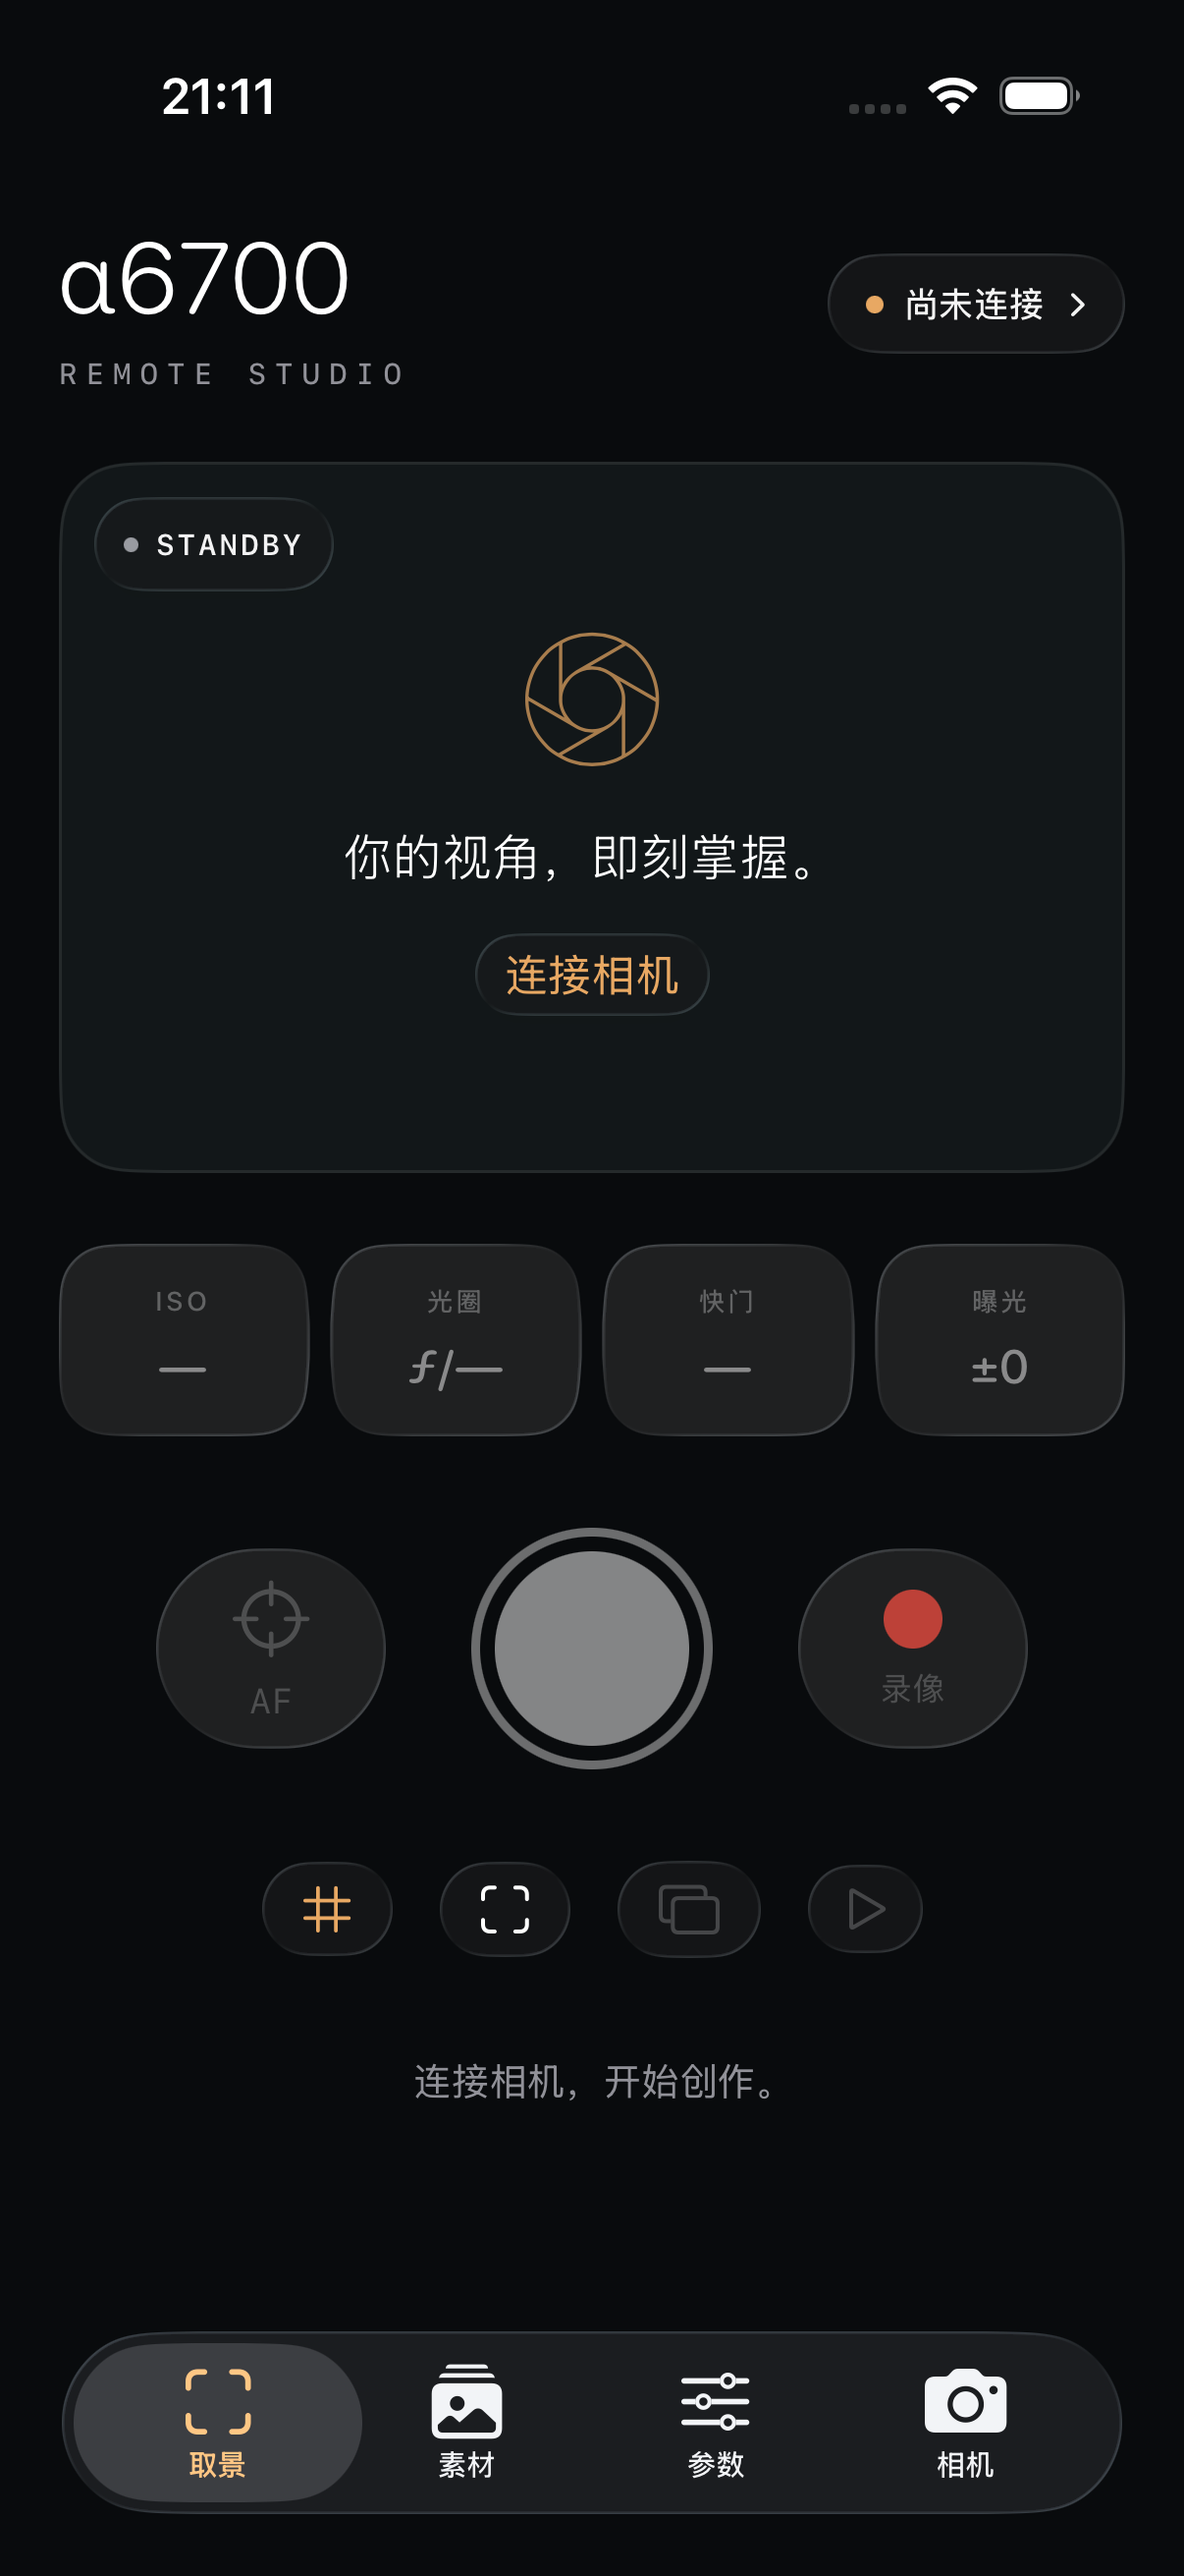
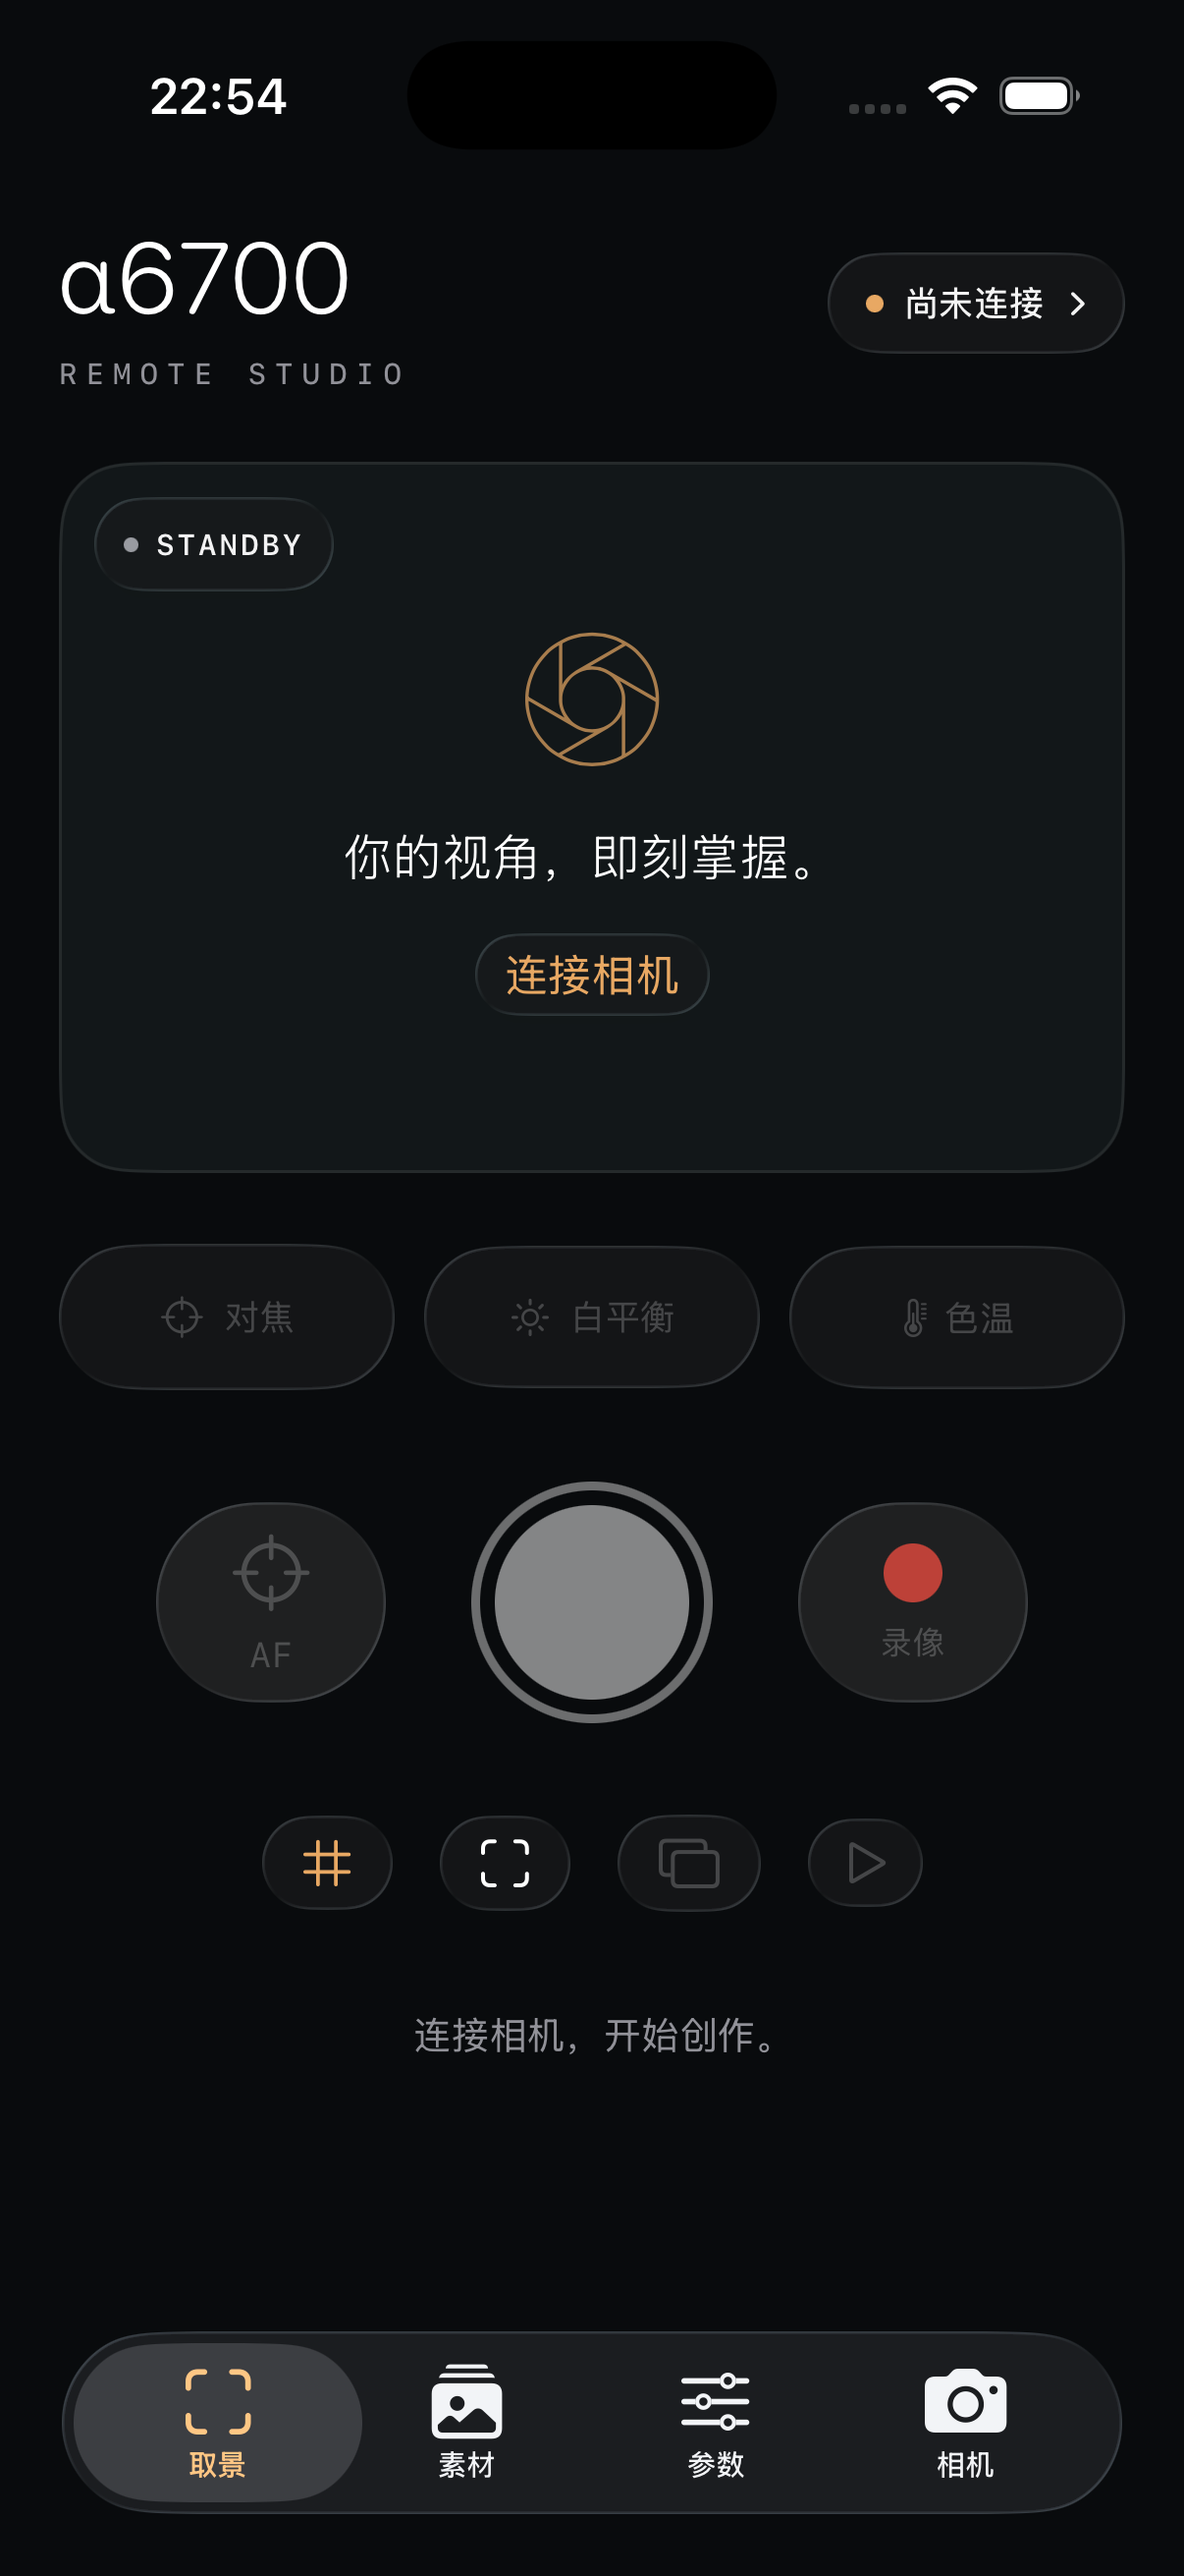
docs: record version 0.2.0 controls, photo quality and transfer measurements

diff --git a/docs/PROGRESS.md b/docs/PROGRESS.md
@@ -70,10 +70,10 @@
 
 | 改动 | 验收方式 | 状态 |
 |---|---|---|
-| 全屏分页相册、缩放、清晰预览和原图 | 模拟器手势测试、手机多张翻页与像素尺寸检查 | 进行中 |
-| ISO / 光圈 / 快门 / EV 刻度滚轮 | 吸附、触感、停稳写入、机身读回和原值恢复 | 待实现 |
-| 取景参数叠层、对焦和白平衡快捷控制 | 真机状态显示、权限与可写状态检查 | 待实现 |
-| 高吞吐导出 | 暂停取景、优先传输、分段对比测试、完整性与续传检查 | 待实现 |
+| 全屏分页相册、缩放、清晰预览和原图 | 模拟器手势测试、手机多张翻页与像素尺寸检查 | 已完成 |
+| ISO / 光圈 / 快门 / EV 刻度滚轮 | 吸附、触感、停稳写入、机身读回和原值恢复 | 已完成；手机 ISO 往返通过 |
+| 取景参数叠层、对焦和白平衡快捷控制 | 真机状态显示、权限与可写状态检查 | 已完成 |
+| 高吞吐导出 | 暂停取景、优先传输、分段对比测试、完整性与续传检查 | 优化已交付，六轮测速完成；手机断网续传仍待单测 |
 
 清晰预览使用 0x923E 的 screennail 类型；原图通过 0x923D 下载，二者在界面分别标识。速度优化保留分段确认、持久化偏移和文件身份校验；不绕过 SSH 认证，也不对同一 PTP 命令流并发写入。
 
@@ -85,3 +85,15 @@
 - 已查看模拟器截图，测试图带有 UI TEST 标识，不作为真实相机成像证据。
 - 22:22 手机构建、覆盖安装和启动成功，已有认证与导入数据保留；签名仍使用本次 7 天描述文件。
 - 导出暂停取景，底层串行请求按传输、交互、清晰预览和缩略图排序。离开照片时取消未开始的读取。
+
+- 22:34 六轮手机测速完成，33,525,760 字节文件的六份 SHA256 一致。2 / 8 / 16 MiB 平均约 0.979 / 0.993 / 0.983 MiB/s，保留 8 MiB 默认值；差异很小，不宣称显著提速。
+- 22:35 手机已连续左右翻页，清晰预览实际为 1920×1080。发现缩略图升级时旧缩放下限会使大图缩小，已修正并增加页面宽度回归断言，测试通过。
+- 22:37 手机导入另一份 RAW。通用 ImageIO 只读到 RAW 内嵌图，已补 Apple CIRAWFilter 原生解码及串行解码队列，避免同时处理多份 RAW。
+
+- 22:42 手机 RAW 原图已通过原生解码显示为 4096×2731，修正后图片正常铺满可用宽度。清晰预览仍使用 1920×1080，界面明确区分。
+
+- 22:44～22:45 真机滚轮从 ISO 250 调整到 400，停稳后机身读回 400；点选刻度恢复 250，读回 250。没有弹出逐次确认框。
+- 0.2.0 已安装到现场 iPhone。新增相册、清晰预览、RAW 解码、拟真控制和导出调度功能分别提交。核心 Go race / vet、上游与原型测试通过，模拟器 UI 三项测试及缩放回归通过。
[1 lines of base64/hex data omitted]
+
+- 最终检查修正未连接时曝光叠层遮挡连接入口的问题，以及旧版图标生成为空白的问题；已重建、覆盖安装并更新界面截图。

diff --git a/docs/CAPABILITIES.md b/docs/CAPABILITIES.md
@@ -24,9 +24,13 @@
 | 按键与拨轮 | 相机 → 机身按键与拨轮；0xD309 / 0xD30B | 已实现；按机身当前枚举值开放，待手机逐项实测 |
 | OSD 图层 | 取景工具；0xD207 / 0x9238 | 已实现；本次未开启，当前是一次图层读取，不是 OSD 视频流 |
 | 整卡分页 | 素材；0x923B / 0x923C | 手机返回 10,919 组影像，遍历多个页面 |
-| 缩略图 | 素材；0x923E | 手机显示 RAW 缩略图；HEIF 格式仍待单独验收 |
+| 缩略图与清晰预览 | 网格 / 全屏；0x923E 类型 1 / 2 | 手机实测 1920×1080 清晰预览；RAW 原图原生解码为 4096×2731 |
+| 相册翻页与缩放 | 全屏左右翻页、双击、双指、缩略图带 | 模拟器翻页、3 倍缩放、宽度回归测试通过；手机连续翻页通过 |
+| 拟真曝光滚轮 | ISO / 光圈 / 快门 / EV / 色温 | 手机滚轮 ISO 250 → 400 → 250，每次读回，原值恢复 |
+| 取景参数叠层 | 曝光、模式、电量、对焦、白平衡 | 手机已显示曝光叠层及对焦 / 白平衡 / 色温快捷入口 |
+| 导出性能 | 优先调度、停止取景、较大分段、流式哈希 | 实测细节见 [性能记录](TRANSFER_PERFORMANCE.md) |
 | 原文件导入 | 素材详情；0x923D | 手机导入一个 28,438,528 字节 RAW，文件大小与传输清单一致 |
-| 原文件完整性记录 | 完成导入后计算 SHA256 | 取回 Mac 的副本与手机记录相同；未把此结果表述为相机端提供了校验和 |
+| 原文件完整性记录 | 导入时流式计算 SHA256 | 取回 Mac 的副本与手机记录相同；未把此结果表述为相机端提供了校验和 |
 | 断点续传 | 导入队列；64 位偏移、身份核对和已确认分段 | Mac 原型已实测；新桥接通过回滚 / 64 位偏移 / 身份测试，手机中途断网续传待验收 |
 | 前后台重连 | 返回前台自动连接 | 手机实测切到主屏幕后返回，恢复连接、ISO 与取景 |
 | 拍摄回传 | 相机 → 接收新拍摄照片 | 已实现；Mac 原型已实测，手机待测 |
